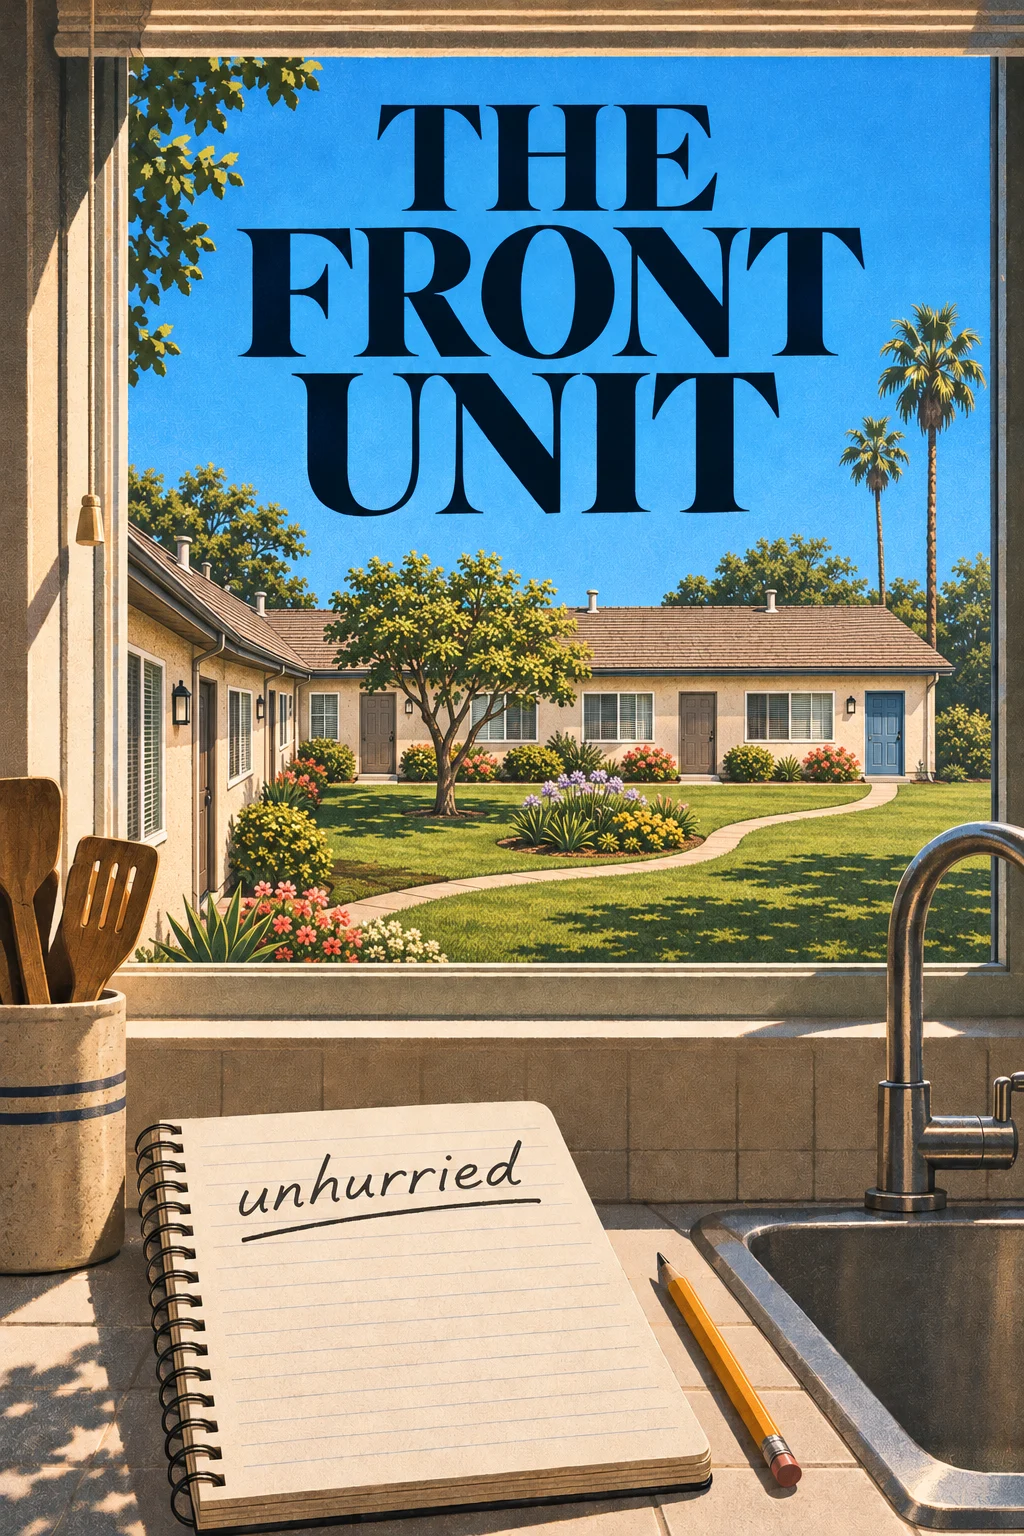
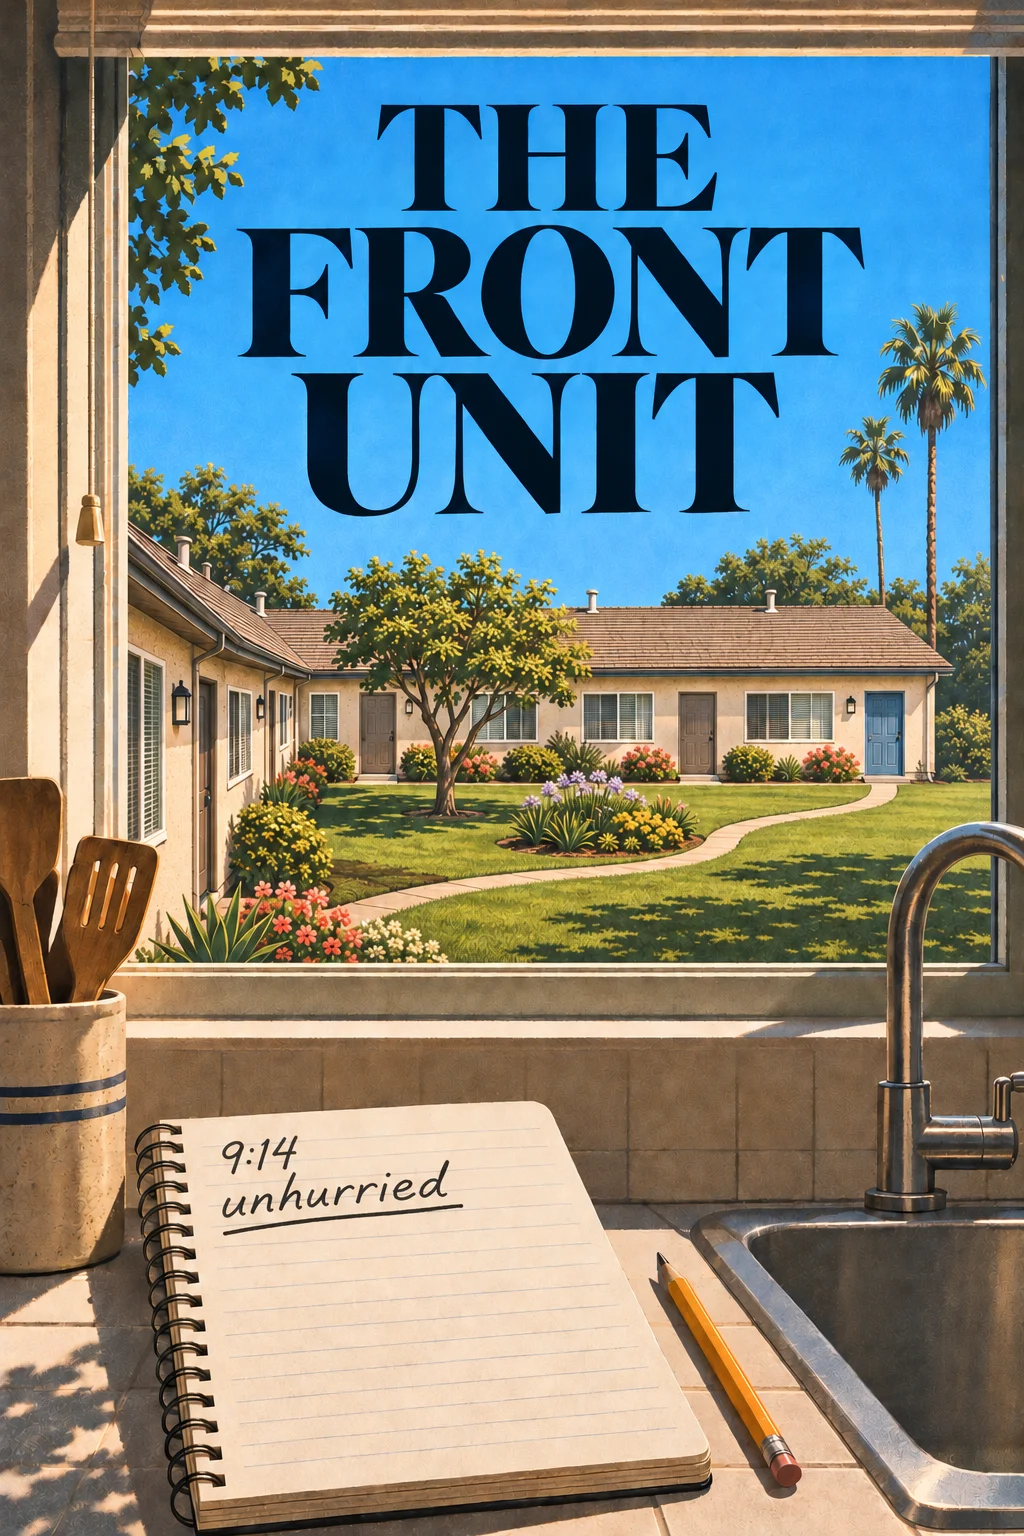
Publish the approved Front Unit cover artwork

diff --git a/index.html b/index.html
@@ -94,7 +94,7 @@
         <div class="book-visual">
           <span class="visual-index" aria-hidden="true">03</span>
           <div class="cover-frame">
-            <img src="assets/front-unit-cover.webp" width="1024" height="1536" alt="" loading="lazy" decoding="async">
+            <img src="assets/front-unit-cover.webp" width="1024" height="1536" alt="A sunny courtyard seen from a kitchen window. The open notebook reads 9:14, then unhurried, underlined." loading="lazy" decoding="async">
           </div>
           <span class="visual-caption" aria-hidden="true">Book One of The Record</span>
         </div>
